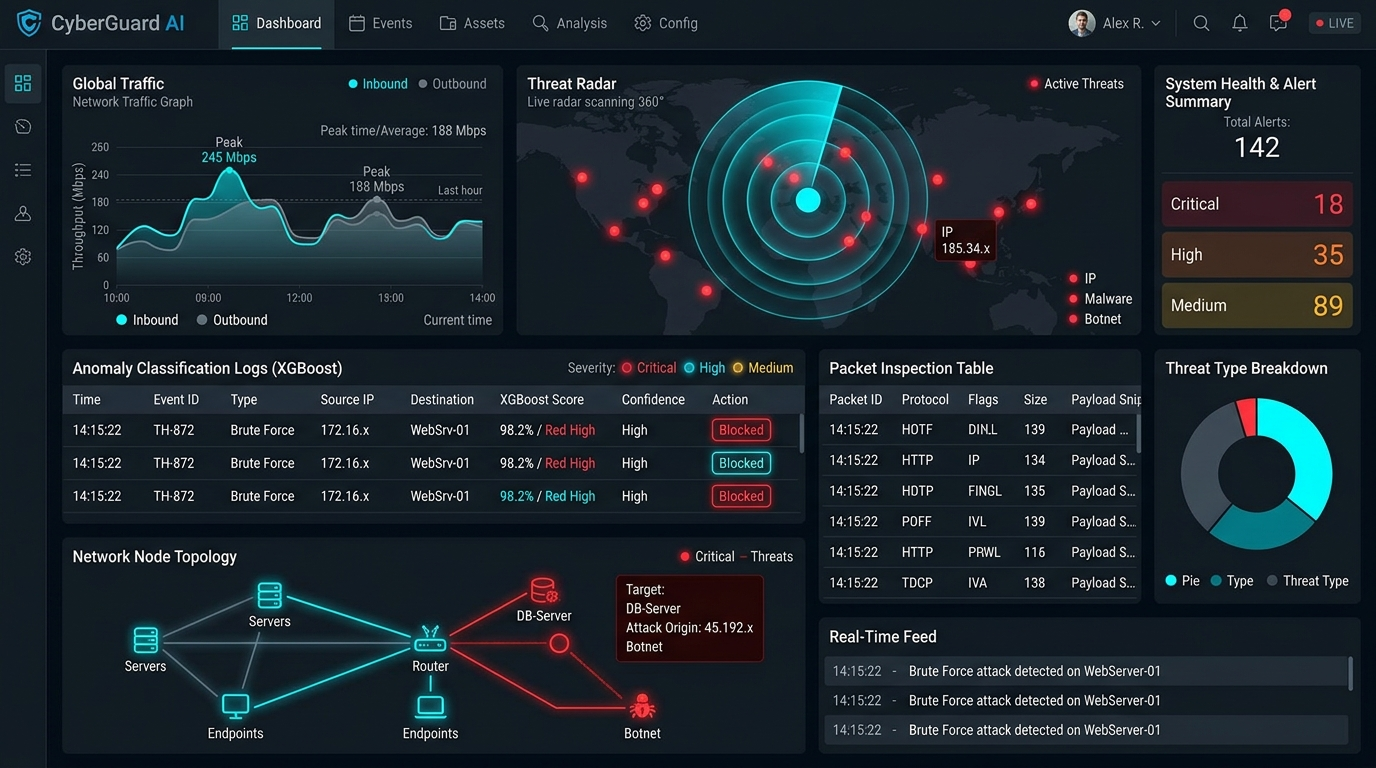
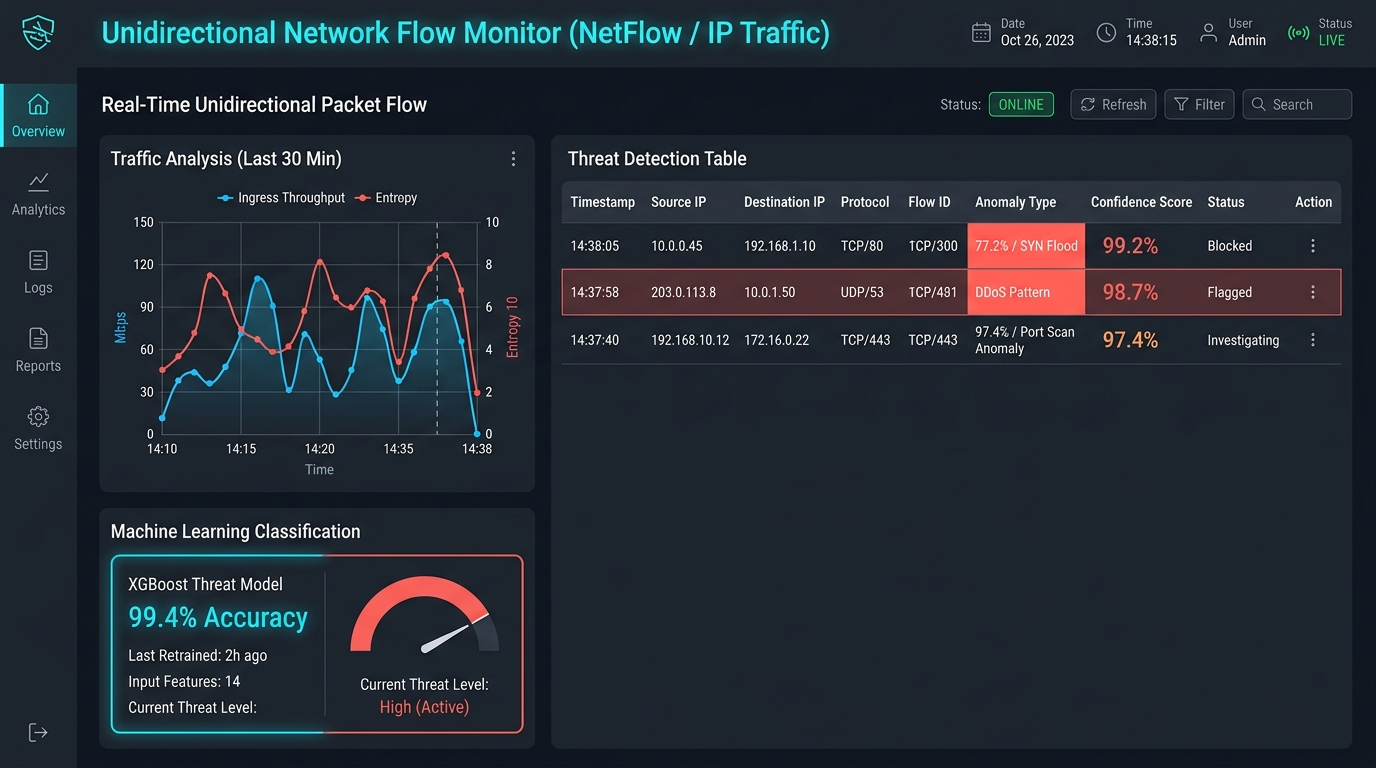
fix: integrate authentic repository UI mockups and exact GitHub repo links for Om's projects

diff --git a/src/data/projects.ts b/src/data/projects.ts
@@ -5,21 +5,21 @@ export type { Project };
 export const projectsData: Project[] = [
   {
     id: "cyber-threat-detection",
-    title: "AI-Based Cyber Threat Detection",
+    title: "Cyber Threat Detection in IP Traffic",
     description:
-      "An AI-driven cybersecurity system identifying and classifying suspicious network activity and anomalies in real-time.",
-    technologies: ["Python", "Machine Learning", "XGBoost", "Cybersecurity"],
-    githubUrl: "https://github.com/Omsuryawanshi02",
+      "Machine learning system analyzing unidirectional NetFlow packet streams to detect DDoS, port scans, and anomalies using XGBoost.",
+    technologies: ["Python", "XGBoost", "NetFlow", "Machine Learning"],
+    githubUrl: "https://github.com/Omsuryawanshi02/AI-Based-Detection-of-Cyber-Threats-in-Unidirectional-IP-Traffic",
     featured: true,
     image: "/images/cyber-threat.jpg",
   },
   {
     id: "guardian-desk",
-    title: "Guardian-Desk Cybersecurity",
+    title: "Guardian-Desk Cybersecurity Toolkit",
     description:
-      "A security toolkit featuring utilities for file integrity monitoring, password vulnerability audit, and event logs.",
-    technologies: ["Python", "Flask", "Cybersecurity", "SHA-256"],
-    githubUrl: "https://github.com/Omsuryawanshi02",
+      "Cybersecurity utility toolkit featuring real-time SHA-256 file integrity monitoring, password audit gauges, and system diagnostic logs.",
+    technologies: ["Python", "Flask", "SHA-256", "Cybersecurity"],
+    githubUrl: "https://github.com/Omsuryawanshi02/Guardian-Desk",
     featured: true,
     image: "/images/guardian-desk.jpg",
   },
@@ -27,10 +27,10 @@ export const projectsData: Project[] = [
     id: "multi-agent-code-helper",
     title: "Multi-Agent Code Helper",
     description:
-      "An autonomous AI coding assistant where collaborative LLM agents explore repo context, debug, and optimize code.",
-    technologies: ["Python", "LangChain", "LLMs", "AI Agents"],
-    githubUrl: "https://github.com/Omsuryawanshi02",
+      "Enterprise developer cockpit powered by Google ADK, NVIDIA NIM, and Pinecone vector search with 4 specialized collaborative AI agents.",
+    technologies: ["Google ADK", "Python", "NVIDIA NIM", "Pinecone"],
+    githubUrl: "https://github.com/Omsuryawanshi02/Capstone-Multi-Agent-CodeHelper",
     featured: true,
-    image: "/images/code-helper.png",
+    image: "/images/code-helper.jpg",
   },
 ];
